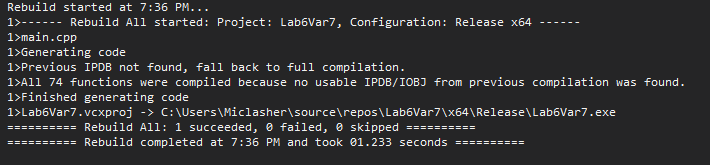
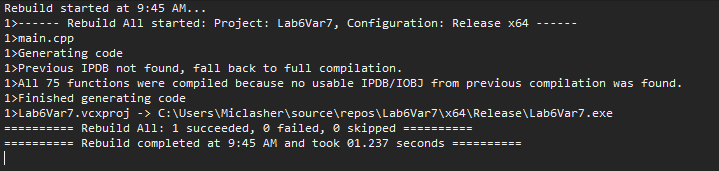
Fix await transform issue

Changed region(s): [[0.0, 0.0, 0.9606, 0.9091]]

diff --git a/Lab6Var7/main.cpp b/Lab6Var7/main.cpp
@@ -2,6 +2,8 @@
 #include <coroutine>
 #include <random>
 
+struct Controller;
+
 struct Task {
     struct promise_type;
     using handle_type = std::coroutine_handle<promise_type>;
@@ -33,13 +35,12 @@ struct Task {
         FinalAwaiter final_suspend() noexcept { return {}; }
         void return_void() {}
         void unhandled_exception() { std::terminate(); }
+
+        auto await_transform(int n);
     };
 };
 
-Task CoroutineA(int n) {
-    std::cout << "Event (Even): " << n << std::endl;
-    co_return;
-}
+Task CoroutineA(int n);
 
 struct Controller {
     int value;
@@ -51,6 +52,7 @@ struct Controller {
             Task t = CoroutineA(value);
             t.h.promise().continuation = caller;
             std::coroutine_handle<> next = t.h;
+
             t.h = nullptr;
             return next;
         }
@@ -62,13 +64,22 @@ struct Controller {
     void await_resume() {}
 };
 
+auto Task::promise_type::await_transform(int n) {
+    return Controller{ n };
+}
+
+Task CoroutineA(int n) {
+    std::cout << "Event (Even): " << n << std::endl;
+    co_return;
+}
+
 Task Generator() {
     std::mt19937 gen(std::random_device{}());
     std::uniform_int_distribution<> dist(1, 256);
 
     for (int i = 0; i < 10; ++i) {
         int n = dist(gen);
-        co_await Controller{ n };
+        co_await n;
     }
 }
 
